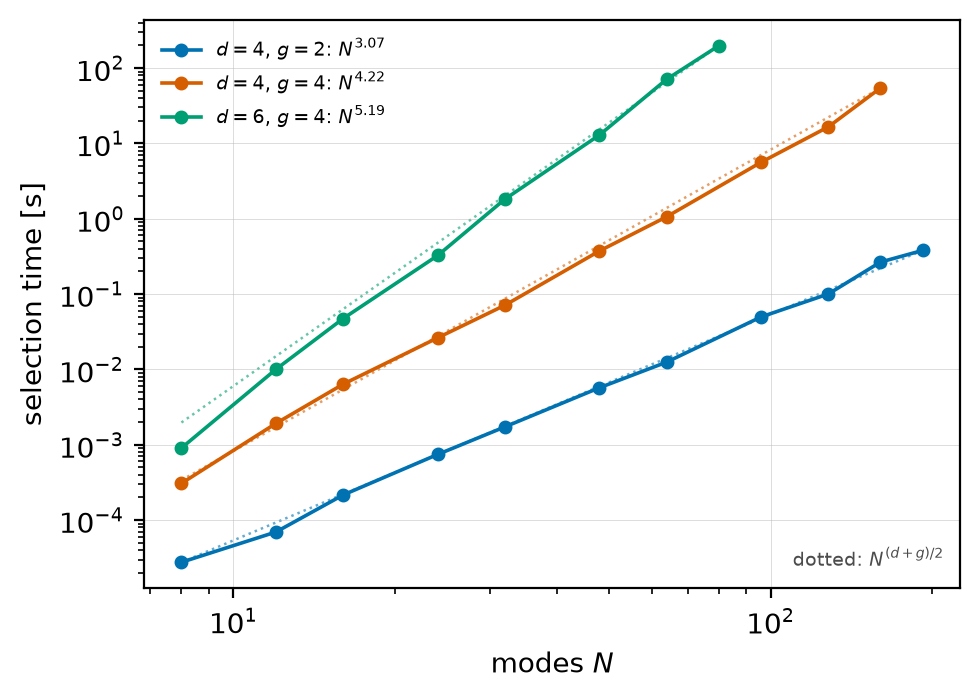
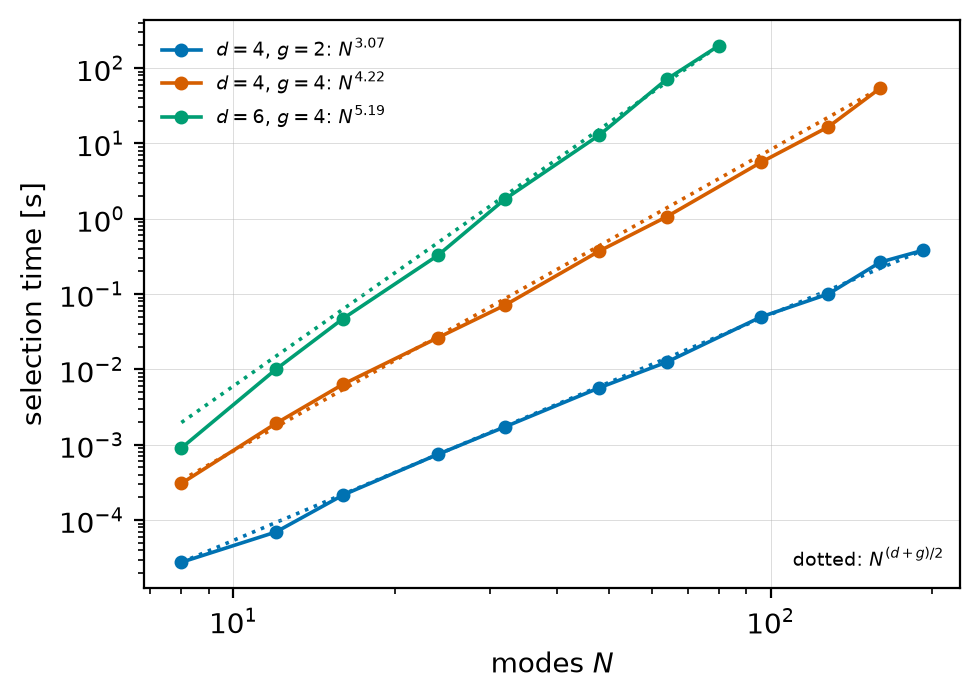
style(paper_plots): 🎨 darken the Fig. 5 guide lines so they survive a printer
A co-author reported the dotted guides as too pale to print. Draw them at full opacity and
width 1.3, with labels at full opacity, and regenerate the PDF and PNG from the unchanged data.

Assisted-by: claude-code:claude-opus-5-5

diff --git a/paper_plots/fig5_selection_scaling/make_figure.py b/paper_plots/fig5_selection_scaling/make_figure.py
@@ -123,8 +123,8 @@ def guide(ax, rs, order, colour):
         xs,
         [y0 * (x / x0) ** order for x in xs],
         ls=":",
-        lw=0.9,
-        alpha=0.6,
+        # Full opacity and a heavier stroke: at alpha 0.6 the guides vanished on paper.
+        lw=1.3,
         color=colour,
         zorder=1,
     )
@@ -180,7 +180,6 @@ def draw(groups, outdir=FIGS):
         ha="right",
         va="bottom",
         fontsize=NOTE,
-        alpha=0.7,
     )
     fig.tight_layout()
     save(fig, outdir, STEM)
